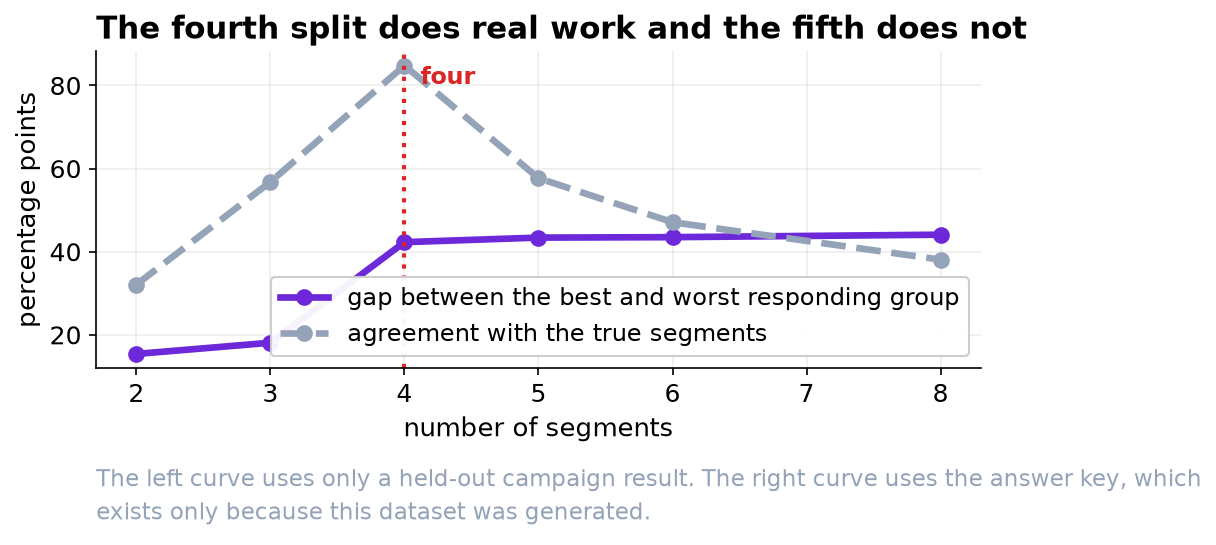
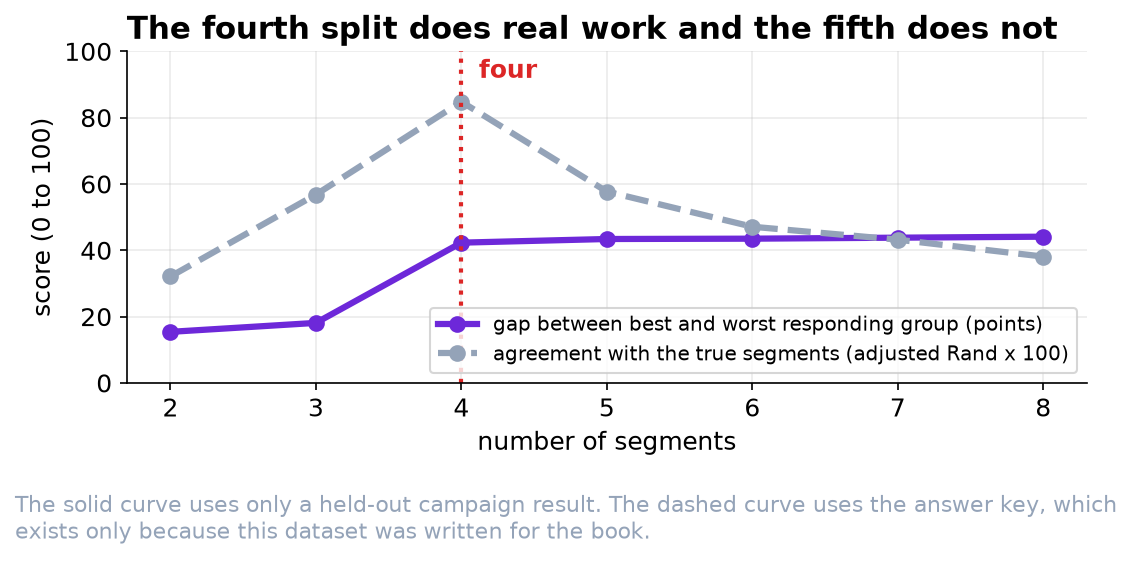
Correct nine points in Capstone: Clustering: Choosing k Honestly
Cluster 2's response rate of 0.126 is clearly different from the 0.185
base rate (and cluster 1 responds at 0.100), so the clue is how closely
it resembles the accounts DBSCAN left unclassified (0.144) on every
column; quiz Q7, the chapter, notebook and reports now say so. DBSCAN's
55.4 percent noise matches the true 54.5 percent middle only because two
errors offset (904 segment members in the noise, 850 middle accounts in
clusters, now printed). The three named groups are 30.2 percent of the
base (now printed), not 45; the brief's figure is captioned as the
answer key; ARI at k = 8 is now printed (0.381), and the brief's figure
axis no longer calls it percentage points. Also: annual spend is the
bottom row of the box plot, the raw-unit clusters differ mainly on
spend-linked columns, the 95 and 7 percent are per-feature shares, and
the dataset card and workbook give rows and accounts separately and say
the data were written for the book.

diff --git a/chapters/notebooks/html/capstone-clustering-choosing-k.html b/chapters/notebooks/html/capstone-clustering-choosing-k.html
@@ -8016,7 +8016,7 @@ a.anchor-link {
 <div class="jp-RenderedText jp-OutputArea-output" data-mime-type="text/plain" tabindex="0">
 <pre>CAPSTONE 33 - CUSTOMER SEGMENTATION, AND HOW MANY SEGMENTS THERE REALLY ARE
 
-Twelve months of loyalty-account behavior from a general retailer, 6,000 accounts.
+Twelve months of loyalty-account behavior from a general retailer, 6,000 accounts, a realistic teaching dataset written for the book.
 
 THE REQUEST. Marketing wants customer segments for next year's plan. The brief says
 'four or five segments, with names'. Nobody has asked whether there are any.
@@ -8036,8 +8036,8 @@ not a formality, and it changes the answer.
 
 KNOWN FAULTS IN THIS EXPORT, left in deliberately:
   - a block of 190 accounts was exported twice
-  - 84 accounts have a negative annual_spend: returns exceeded purchases
-  - 233 accounts have tenure_months = -1 because the join date was never migrated
+  - 84 rows (81 accounts once duplicates are removed) have a negative annual_spend: returns exceeded purchases
+  - 233 rows (228 accounts) have tenure_months = -1 because the join date was never migrated
 
 THERE IS AN ANSWER KEY in the Truth sheet, because this dataset was generated. Do not
 open it until you have committed to an answer. Read Truth_ReadMe first.
@@ -8245,7 +8245,7 @@ The five-number summary of every column is the left panel; the whole correlation
 </div>
 <div class="jp-InputArea jp-Cell-inputArea"><div class="jp-InputPrompt jp-InputArea-prompt">
 </div><div class="jp-RenderedHTMLCommon jp-RenderedMarkdown jp-MarkdownOutput" data-mime-type="text/markdown">
-<p><strong>Left:</strong> a log axis is the only way to get all eight columns onto one picture, and that is itself the finding. On the linear scale k-means actually works with, the top row dwarfs the bottom four. <strong>Right:</strong> spend, basket size and visits carry much of the same information. Standardizing fixes the units problem in the left panel and does nothing at all about the right one, and the next step shows what the first failure costs.</p>
+<p><strong>Left:</strong> a log axis is the only way to get all eight columns onto one picture, and that is itself the finding. On the linear scale k-means actually works with, the bottom row, annual spend, dwarfs the rest. <strong>Right:</strong> spend, basket size and visits carry much of the same information. Standardizing fixes the units problem in the left panel and does nothing at all about the right one, and the next step shows what the first failure costs.</p>
 </div>
 </div>
 </div>
@@ -8810,6 +8810,9 @@ most stable k on the real data: 2
     <span class="n">m</span> <span class="o">=</span> <span class="n">db</span> <span class="o">==</span> <span class="n">c</span>
     <span class="n">nm</span> <span class="o">=</span> <span class="s2">"noise"</span> <span class="k">if</span> <span class="n">c</span> <span class="o">==</span> <span class="o">-</span><span class="mi">1</span> <span class="k">else</span> <span class="nb">str</span><span class="p">(</span><span class="n">c</span><span class="p">)</span>
     <span class="nb">print</span><span class="p">(</span><span class="sa">f</span><span class="s2">"  </span><span class="si">{</span><span class="n">nm</span><span class="si">:</span><span class="s2">&gt;10s</span><span class="si">}</span><span class="s2"> </span><span class="si">{</span><span class="n">m</span><span class="o">.</span><span class="n">sum</span><span class="p">()</span><span class="si">:</span><span class="s2">7,</span><span class="si">}</span><span class="s2"> </span><span class="si">{</span><span class="n">y</span><span class="p">[</span><span class="n">m</span><span class="p">]</span><span class="o">.</span><span class="n">mean</span><span class="p">()</span><span class="si">:</span><span class="s2">10.3f</span><span class="si">}</span><span class="s2">"</span> <span class="o">+</span> <span class="s2">""</span><span class="o">.</span><span class="n">join</span><span class="p">(</span><span class="sa">f</span><span class="s2">"</span><span class="si">{</span><span class="n">v</span><span class="si">:</span><span class="s2">12.2f</span><span class="si">}</span><span class="s2">"</span> <span class="k">for</span> <span class="n">v</span> <span class="ow">in</span> <span class="n">X</span><span class="p">[</span><span class="n">m</span><span class="p">][:,</span><span class="mi">1</span><span class="p">:]</span><span class="o">.</span><span class="n">mean</span><span class="p">(</span><span class="mi">0</span><span class="p">)))</span>
+<span class="n">named</span> <span class="o">=</span> <span class="n">np</span><span class="o">.</span><span class="n">isin</span><span class="p">(</span><span class="n">db</span><span class="p">,</span> <span class="p">[</span><span class="mi">0</span><span class="p">,</span> <span class="mi">1</span><span class="p">,</span> <span class="mi">3</span><span class="p">])</span>
+<span class="nb">print</span><span class="p">(</span><span class="sa">f</span><span class="s2">"</span><span class="se">\n</span><span class="s2">clusters 0, 1 and 3 hold </span><span class="si">{</span><span class="n">named</span><span class="o">.</span><span class="n">sum</span><span class="p">()</span><span class="si">:</span><span class="s2">,</span><span class="si">}</span><span class="s2"> accounts, </span><span class="si">{</span><span class="n">named</span><span class="o">.</span><span class="n">mean</span><span class="p">()</span><span class="si">:</span><span class="s2">.1%</span><span class="si">}</span><span class="s2"> of the base; "</span>
+      <span class="sa">f</span><span class="s2">"the whole base responded at </span><span class="si">{</span><span class="n">y</span><span class="o">.</span><span class="n">mean</span><span class="p">()</span><span class="si">:</span><span class="s2">.3f</span><span class="si">}</span><span class="s2">"</span><span class="p">)</span>
 </pre></div>
 </div>
 </div>
@@ -8830,6 +8833,8 @@ most stable k on the real data: 2
            1     661      0.100        3.51      130.01       19.08        0.30        0.24        0.85        2.73
            2     819      0.126        9.27       42.45       56.66        0.33        0.06        0.52        4.74
            3     181      0.039       38.08      149.31       86.88        0.14        0.04        0.46        9.07
+
+clusters 0, 1 and 3 hold 1,719 accounts, 30.2% of the base; the whole base responded at 0.185
 </pre>
 </div>
 </div>
@@ -8863,6 +8868,12 @@ most stable k on the real data: 2
 <span class="n">ct</span> <span class="o">=</span> <span class="n">pd</span><span class="o">.</span><span class="n">crosstab</span><span class="p">(</span><span class="n">pd</span><span class="o">.</span><span class="n">Series</span><span class="p">(</span><span class="n">db</span><span class="p">)</span><span class="o">.</span><span class="n">replace</span><span class="p">({</span><span class="o">-</span><span class="mi">1</span><span class="p">:</span> <span class="s2">"noise"</span><span class="p">}),</span> <span class="n">T</span><span class="p">)</span>
 <span class="nb">print</span><span class="p">(</span><span class="s2">"DBSCAN CLUSTERS AGAINST THE ANSWER KEY"</span><span class="p">)</span>
 <span class="nb">print</span><span class="p">(</span><span class="n">ct</span><span class="o">.</span><span class="n">to_string</span><span class="p">())</span>
+<span class="n">noise</span><span class="p">,</span> <span class="n">mid</span> <span class="o">=</span> <span class="n">db</span> <span class="o">==</span> <span class="o">-</span><span class="mi">1</span><span class="p">,</span> <span class="n">T</span> <span class="o">==</span> <span class="s2">"unstructured middle"</span>
+<span class="nb">print</span><span class="p">(</span><span class="sa">f</span><span class="s2">"</span><span class="se">\n</span><span class="s2">noise </span><span class="si">{</span><span class="n">noise</span><span class="o">.</span><span class="n">mean</span><span class="p">()</span><span class="si">:</span><span class="s2">.1%</span><span class="si">}</span><span class="s2"> of accounts against a true middle of </span><span class="si">{</span><span class="n">mid</span><span class="o">.</span><span class="n">mean</span><span class="p">()</span><span class="si">:</span><span class="s2">.1%</span><span class="si">}</span><span class="s2">, but the two are different sets:"</span><span class="p">)</span>
+<span class="nb">print</span><span class="p">(</span><span class="sa">f</span><span class="s2">"  </span><span class="si">{</span><span class="nb">int</span><span class="p">((</span><span class="n">noise</span><span class="w"> </span><span class="o">&amp;</span><span class="w"> </span><span class="o">~</span><span class="n">mid</span><span class="p">)</span><span class="o">.</span><span class="n">sum</span><span class="p">())</span><span class="si">:</span><span class="s2">,</span><span class="si">}</span><span class="s2"> noise accounts belong to a true segment, including "</span>
+      <span class="sa">f</span><span class="s2">"</span><span class="si">{</span><span class="nb">int</span><span class="p">((</span><span class="n">noise</span><span class="w"> </span><span class="o">&amp;</span><span class="w"> </span><span class="p">(</span><span class="n">T</span><span class="w"> </span><span class="o">==</span><span class="w"> </span><span class="s1">'loyal high spenders'</span><span class="p">))</span><span class="o">.</span><span class="n">sum</span><span class="p">())</span><span class="si">}</span><span class="s2"> of the </span><span class="si">{</span><span class="nb">int</span><span class="p">((</span><span class="n">T</span><span class="w"> </span><span class="o">==</span><span class="w"> </span><span class="s1">'loyal high spenders'</span><span class="p">)</span><span class="o">.</span><span class="n">sum</span><span class="p">())</span><span class="si">}</span><span class="s2"> loyal high spenders"</span><span class="p">)</span>
+<span class="nb">print</span><span class="p">(</span><span class="sa">f</span><span class="s2">"  </span><span class="si">{</span><span class="nb">int</span><span class="p">((</span><span class="n">noise</span><span class="w"> </span><span class="o">&amp;</span><span class="w"> </span><span class="n">mid</span><span class="p">)</span><span class="o">.</span><span class="n">sum</span><span class="p">())</span><span class="si">:</span><span class="s2">,</span><span class="si">}</span><span class="s2"> of the </span><span class="si">{</span><span class="nb">int</span><span class="p">(</span><span class="n">mid</span><span class="o">.</span><span class="n">sum</span><span class="p">())</span><span class="si">:</span><span class="s2">,</span><span class="si">}</span><span class="s2"> middle accounts are labeled noise "</span>
+      <span class="sa">f</span><span class="s2">"(</span><span class="si">{</span><span class="p">(</span><span class="n">noise</span><span class="w"> </span><span class="o">&amp;</span><span class="w"> </span><span class="n">mid</span><span class="p">)</span><span class="o">.</span><span class="n">sum</span><span class="p">()</span><span class="o">/</span><span class="n">mid</span><span class="o">.</span><span class="n">sum</span><span class="p">()</span><span class="si">:</span><span class="s2">.0%</span><span class="si">}</span><span class="s2">); the other </span><span class="si">{</span><span class="nb">int</span><span class="p">((</span><span class="o">~</span><span class="n">noise</span><span class="w"> </span><span class="o">&amp;</span><span class="w"> </span><span class="n">mid</span><span class="p">)</span><span class="o">.</span><span class="n">sum</span><span class="p">())</span><span class="si">}</span><span class="s2"> were put in clusters"</span><span class="p">)</span>
 </pre></div>
 </div>
 </div>
@@ -8883,6 +8894,10 @@ row_0
 2                    0                 0                    0                  819
 3                    0                 0                  180                    1
 noise              123                99                  682                 2251
+
+noise 55.4% of accounts against a true middle of 54.5%, but the two are different sets:
+  904 noise accounts belong to a true segment, including 682 of the 862 loyal high spenders
+  2,251 of the 3,101 middle accounts are labeled noise (73%); the other 850 were put in clusters
 </pre>
 </div>
 </div>
@@ -8895,7 +8910,7 @@ noise              123                99                  682                 22
 </div>
 <div class="jp-InputArea jp-Cell-inputArea"><div class="jp-InputPrompt jp-InputArea-prompt">
 </div><div class="jp-RenderedHTMLCommon jp-RenderedMarkdown jp-MarkdownOutput" data-mime-type="text/markdown">
-<p>Three of the four dense regions are one true segment each, almost cleanly. The fourth, cluster 2, is drawn entirely from the unstructured middle: it is a dense patch of a continuum rather than a group, and it is exactly the kind of thing that gets a name and a campaign budget if nobody checks. Its response rate of 0.126 is indistinguishable from the base rate, which is the clue that was available without the answer key.</p>
+<p>Three of the four dense regions are one true segment each, almost cleanly. The fourth, cluster 2, is drawn entirely from the unstructured middle: it is a dense patch of a continuum rather than a group, and it is exactly the kind of thing that gets a name and a campaign budget if nobody checks. The clue that was available without the answer key is how much it resembles the accounts DBSCAN declined to classify. Its response rate of 0.126 sits close to their 0.144, and its profile is middling on every column. Response alone would not have singled it out, since cluster 1 responds at 0.100.</p>
 </div>
 </div>
 </div>
@@ -8966,7 +8981,7 @@ unstructured middle    0.145
 <div class="cm-editor cm-s-jupyter">
 <div class="highlight hl-ipython3"><pre><span></span><span class="nb">print</span><span class="p">(</span><span class="s2">"ADJUSTED RAND AGAINST THE ANSWER KEY"</span><span class="p">)</span>
 <span class="nb">print</span><span class="p">(</span><span class="sa">f</span><span class="s2">"  </span><span class="si">{</span><span class="s1">'k'</span><span class="si">:</span><span class="s2">&gt;3s</span><span class="si">}</span><span class="s2"> </span><span class="si">{</span><span class="s1">'k-means'</span><span class="si">:</span><span class="s2">&gt;10s</span><span class="si">}</span><span class="s2"> </span><span class="si">{</span><span class="s1">'Ward'</span><span class="si">:</span><span class="s2">&gt;10s</span><span class="si">}</span><span class="s2">"</span><span class="p">)</span>
-<span class="k">for</span> <span class="n">k</span> <span class="ow">in</span> <span class="nb">range</span><span class="p">(</span><span class="mi">2</span><span class="p">,</span> <span class="mi">8</span><span class="p">):</span>
+<span class="k">for</span> <span class="n">k</span> <span class="ow">in</span> <span class="nb">range</span><span class="p">(</span><span class="mi">2</span><span class="p">,</span> <span class="mi">9</span><span class="p">):</span>
     <span class="n">a</span> <span class="o">=</span> <span class="n">adjusted_rand_score</span><span class="p">(</span><span class="n">T</span><span class="p">,</span> <span class="n">KMeans</span><span class="p">(</span><span class="n">k</span><span class="p">,</span> <span class="n">n_init</span><span class="o">=</span><span class="mi">10</span><span class="p">,</span> <span class="n">random_state</span><span class="o">=</span><span class="mi">1</span><span class="p">)</span><span class="o">.</span><span class="n">fit_predict</span><span class="p">(</span><span class="n">Z</span><span class="p">))</span>
     <span class="n">b</span> <span class="o">=</span> <span class="n">adjusted_rand_score</span><span class="p">(</span><span class="n">T</span><span class="p">,</span> <span class="n">AgglomerativeClustering</span><span class="p">(</span><span class="n">k</span><span class="p">,</span> <span class="n">linkage</span><span class="o">=</span><span class="s2">"ward"</span><span class="p">)</span><span class="o">.</span><span class="n">fit_predict</span><span class="p">(</span><span class="n">Z</span><span class="p">))</span>
     <span class="nb">print</span><span class="p">(</span><span class="sa">f</span><span class="s2">"  </span><span class="si">{</span><span class="n">k</span><span class="si">:</span><span class="s2">3d</span><span class="si">}</span><span class="s2"> </span><span class="si">{</span><span class="n">a</span><span class="si">:</span><span class="s2">10.3f</span><span class="si">}</span><span class="s2"> </span><span class="si">{</span><span class="n">b</span><span class="si">:</span><span class="s2">10.3f</span><span class="si">}</span><span class="s2">"</span><span class="p">)</span>
@@ -9029,6 +9044,13 @@ unstructured middle    0.145
 <div class="jp-OutputPrompt jp-OutputArea-prompt"></div>
 <div class="jp-RenderedText jp-OutputArea-output" data-mime-type="text/plain" tabindex="0">
 <pre>    7      0.432      0.428
+</pre>
+</div>
+</div>
+<div class="jp-OutputArea-child">
+<div class="jp-OutputPrompt jp-OutputArea-prompt"></div>
+<div class="jp-RenderedText jp-OutputArea-output" data-mime-type="text/plain" tabindex="0">
+<pre>    8      0.381      0.385
 
   DBSCAN, on the 2,538 accounts it was willing to classify: 0.963
 </pre>
@@ -9046,7 +9068,7 @@ unstructured middle    0.145
 <p>Everything the external check said turns out to be right, and everything the internal indices said turns out to be wrong.</p>
 <ul>
 <li><strong>k = 4 recovers the structure</strong>, at an adjusted Rand of 0.85 for k-means and 0.92 for Ward. k = 2, which both internal criteria preferred, scores 0.32.</li>
-<li><strong>DBSCAN scores 0.96</strong> on the accounts it was prepared to classify, and it independently identified that about 55 percent of the base belongs to nothing, against a true figure of 55 percent.</li>
+<li><strong>DBSCAN scores 0.96</strong> on the accounts it was prepared to classify, and its noise share of 55.4 percent sits close to the true middle's 54.5. The match is partly luck. Its noise includes 682 of the 862 loyal high spenders, while 850 middle accounts were put in clusters, and at a radius of 1.1 the noise share is 15.4 percent.</li>
 <li><strong>Ward beat k-means at every k from three to six</strong>, which is worth a moment: the segments are not equally sized or equally spread, and k-means prefers clusters that are.</li>
 </ul>
 <p>The general lesson is not that silhouette and stability are useless. They established that there was structure at all, which is a real question and was worth answering. They could not count it. Counting it needed evidence from outside the clustering.</p>
@@ -9145,12 +9167,12 @@ unstructured middle    0.145
 </div><div class="jp-RenderedHTMLCommon jp-RenderedMarkdown jp-MarkdownOutput" data-mime-type="text/markdown">
 <hr/>
 <h3 id="What-to-take-away">What to take away<a class="anchor-link" href="#What-to-take-away">¶</a></h3><ol>
-<li><strong>Clustering on raw units clusters on whatever has the largest numbers.</strong> Ninety-five percent of the variation captured was spend; seven percent was online share.</li>
+<li><strong>Clustering on raw units clusters on whatever has the largest numbers.</strong> The raw-unit clusters accounted for 95 percent of the variance in spend and 7 percent of the variance in online share.</li>
 <li><strong>Every method returns clusters, including on data that has none.</strong> Silhouette named a best k for uniform random data without hesitation.</li>
 <li><strong>Read the height of an index, not the position of its maximum.</strong> 0.37 against 0.09 is evidence; the argmax at 2 was wrong.</li>
 <li><strong>Stability detects structure and does not count it.</strong> 0.99 on the real data against 0.15 on noise, and above 0.98 for every k from 2 to 5.</li>
 <li><strong>The number of clusters came from a variable the algorithm never saw.</strong> The response spread doubled at the fourth split and flattened after it.</li>
-<li><strong>k-means must classify everyone.</strong> DBSCAN found that 55 percent of the base belongs to no segment, which was the truth and was not in the brief.</li>
+<li><strong>k-means must classify everyone.</strong> DBSCAN left 55 percent of the base in no segment, close to the true middle's share, though the two sets overlap only in part.</li>
 </ol>
 </div>
 </div>

diff --git a/reports/capstone-33-clustering-choosing-k-technical.html b/reports/capstone-33-clustering-choosing-k-technical.html
@@ -81,7 +81,7 @@
       <p>Feature standard deviations span four orders of magnitude: <code>annual_spend</code> at 2,134.7 against <code>discount_share</code> at 0.248, a ratio of about 8,600. Under a Euclidean metric this makes the partition a function of spend alone.</p>
       <div class="rpt-cap"><span class="n">Table 1.</span> Between-cluster variance as a share of total, per feature, k = 4 on unstandardized data.</div>
       <div class="rpt-tablewrap" tabindex="0"><table class="rpt-table"><thead><tr><th>Feature</th><th>Share of its variance explained by k-means on raw units</th></tr></thead><tbody><tr><td><span class='nm'>annual_spend</span></td><td><span class='nm'>0.950</span></td></tr><tr><td>visits_per_year</td><td>0.554</td></tr><tr><td>avg_basket</td><td>0.402</td></tr><tr><td>categories_bought</td><td>0.251</td></tr><tr><td>discount_share</td><td>0.200</td></tr><tr><td>tenure_months</td><td>0.142</td></tr><tr><td>returns_rate</td><td>0.072</td></tr><tr><td><span class='nm'>online_share</span></td><td><span class='nm'>0.068</span></td></tr></tbody></table></div>
-      <p>The resulting clusters have mean annual spends of 442, 1,405, 5,017 and 7,875 dollars and are near-identical on every behavioral rate. All subsequent analysis uses z-standardized features. That choice is itself a weighting assumption, asserting equal importance per standard deviation, and a margin-weighted alternative would produce different boundaries with no test to adjudicate between them.</p>
+      <p>The resulting clusters have mean annual spends of 442, 1,405, 5,017 and 7,875 dollars and differ mainly in spend and the spend-linked columns, visits and basket size. All subsequent analysis uses z-standardized features. That choice is itself a weighting assumption, asserting equal importance per standard deviation, and a margin-weighted alternative would produce different boundaries with no test to adjudicate between them.</p>
       <h2>3. Internal criteria</h2>
       <div class="rpt-cap"><span class="n">Table 2.</span> Silhouette on a 3,000-point subsample; stability is the mean adjusted Rand between the full solution and 25 refits on 80 percent subsamples.</div>
       <div class="rpt-tablewrap" tabindex="0"><table class="rpt-table"><thead><tr><th>k</th><th>Silhouette, real</th><th>Silhouette, uniform random</th><th>Stability, real</th><th>Stability, random</th></tr></thead><tbody><tr><td><span class='nm'>2</span></td><td><span class='nm'>0.3670</span></td><td>0.0950</td><td><span class='nm'>0.998</span></td><td>0.230</td></tr><tr><td>3</td><td>0.3147</td><td>0.0814</td><td>0.997</td><td>0.162</td></tr><tr><td>4</td><td>0.3242</td><td>0.0858</td><td>0.994</td><td>0.151</td></tr><tr><td>5</td><td>0.2932</td><td>0.0862</td><td>0.987</td><td>0.198</td></tr><tr><td>6</td><td>0.2790</td><td>0.0855</td><td>0.944</td><td>0.223</td></tr><tr><td>7</td><td>0.2739</td><td>0.0877</td><td>0.823</td><td>0.226</td></tr><tr><td>10</td><td>0.1841</td><td>0.0925</td><td></td><td></td></tr></tbody></table></div>
@@ -96,12 +96,12 @@
       <figure class="rpt-fig"><img src="../assets/img/report-33-how-many-k.png" alt="Two curves against number of segments, both turning at four."><figcaption><span class="n">Figure 2.</span> The held-out campaign response spread and the agreement with the answer key, both against the number of segments. Only the first was available before the key was opened.</figcaption></figure>
       <h2>5. Ward and DBSCAN</h2>
       <div class="rpt-cap"><span class="n">Table 4.</span> Adjusted Rand against the answer key.</div>
-      <div class="rpt-tablewrap"><table class="rpt-table"><thead><tr><th>k</th><th>k-means ARI</th><th>Ward ARI</th></tr></thead><tbody><tr><td>2</td><td>0.321</td><td>0.316</td></tr><tr><td>3</td><td>0.568</td><td>0.586</td></tr><tr><td><span class='nm'>4</span></td><td><span class='nm'>0.848</span></td><td><span class='nm'>0.924</span></td></tr><tr><td>5</td><td>0.577</td><td>0.601</td></tr><tr><td>6</td><td>0.471</td><td>0.527</td></tr><tr><td>7</td><td>0.432</td><td>0.428</td></tr></tbody></table></div>
+      <div class="rpt-tablewrap"><table class="rpt-table"><thead><tr><th>k</th><th>k-means ARI</th><th>Ward ARI</th></tr></thead><tbody><tr><td>2</td><td>0.321</td><td>0.316</td></tr><tr><td>3</td><td>0.568</td><td>0.586</td></tr><tr><td><span class='nm'>4</span></td><td><span class='nm'>0.848</span></td><td><span class='nm'>0.924</span></td></tr><tr><td>5</td><td>0.577</td><td>0.601</td></tr><tr><td>6</td><td>0.471</td><td>0.527</td></tr><tr><td>7</td><td>0.432</td><td>0.428</td></tr><tr><td>8</td><td>0.381</td><td>0.385</td></tr></tbody></table></div>
       <p>Ward linkage outperforms k-means at every k from 3 to 6. The true segments differ in size (978, 862, 752 within a base of 5,693) and in dispersion, and k-means implicitly favors clusters that are comparable in both.</p>
-      <p>DBSCAN at eps = 0.9, min_samples = 25 returns four dense regions and labels <strong>55.4 percent</strong> of accounts as noise, against a true unstructured share of <strong>54.5 percent</strong>. On the 2,538 accounts it was willing to classify it achieves an adjusted Rand of <strong>0.963</strong>.</p>
+      <p>DBSCAN at eps = 0.9, min_samples = 25 returns four dense regions and labels <strong>55.4 percent</strong> of accounts as noise, against a true unstructured share of <strong>54.5 percent</strong>. The totals agree because two errors offset. The noise holds 904 accounts from true segments, including 682 of the 862 loyal high spenders, and 850 of the 3,101 middle accounts were assigned to clusters. On the 2,538 accounts it was willing to classify it achieves an adjusted Rand of <strong>0.963</strong>.</p>
       <div class="rpt-cap"><span class="n">Table 5.</span> DBSCAN labels against the answer key.</div>
       <div class="rpt-tablewrap" tabindex="0"><table class="rpt-table"><thead><tr><th>DBSCAN cluster</th><th>Bargain hunters</th><th>Gift occasionals</th><th>Loyal high spenders</th><th>Unstructured middle</th></tr></thead><tbody><tr><td>0</td><td><span class='nm'>855</span></td><td>0</td><td>0</td><td>22</td></tr><tr><td>1</td><td>0</td><td><span class='nm'>653</span></td><td>0</td><td>8</td></tr><tr><td>3</td><td>0</td><td>0</td><td><span class='nm'>180</span></td><td>1</td></tr><tr><td><span class='nm'>2</span></td><td>0</td><td>0</td><td>0</td><td><span class='nm'>819</span></td></tr><tr><td>noise</td><td>123</td><td>99</td><td>682</td><td>2,251</td></tr></tbody></table></div>
-      <p>Cluster 2 consists entirely of unstructured-middle accounts: a dense region of a continuum rather than a group. Its response rate of 0.126 against a base rate of 0.185 is the diagnostic that identifies it without the answer key, and it is the same external criterion used to select k, applied per cluster.</p>
+      <p>Cluster 2 consists entirely of unstructured-middle accounts: a dense region of a continuum rather than a group. Its response rate of 0.126, close to the 0.144 of the DBSCAN noise accounts, and a behavioral profile near theirs on every feature identify it without the answer key. Response alone does not single it out, since the gift-occasional cluster responds at 0.100.</p>
       <p>DBSCAN is highly sensitive to eps: 0.7 yields two clusters and 91.9 percent noise, 1.5 yields one cluster and 1.0 percent noise. The parameter performs the same role as k and should be selected the same way.</p>
       <figure class="rpt-fig"><img src="../assets/img/capstone-clustering-external.png" alt="Two panels: the value curves peaking at four, and a table of DBSCAN clusters against true segments."><figcaption><span class="n">Figure 3.</span> Left, the external check and the answer key across k. Right, what DBSCAN found set against the true segments, including the dense patch of continuum it labeled as a cluster.</figcaption></figure>
       <h2>6. Limitations</h2>

diff --git a/chapters/capstone-clustering-choosing-k.html b/chapters/capstone-clustering-choosing-k.html
@@ -152,7 +152,7 @@
     <figure class="nb-fig">
       <img src="../assets/img/capstone-clustering-firstlook.png"
            alt="Left: box plots of the eight behavioral features on a logarithmic axis, spanning five orders of magnitude from returns rate near 0.07 up to annual spend near 650. Right: an eight by eight correlation heat map, with annual spend correlating 0.72 with visits per year and 0.65 with average basket, and average basket correlating minus 0.49 with discount share.">
-      <figcaption><strong>Left:</strong> a log axis is the only way to fit all eight columns onto one picture, and that is the finding. On the linear scale k-means works with, the top row dwarfs the rest. <strong>Right:</strong> several columns already carry the same information. Standardizing fixes the first problem and does nothing about the second.</figcaption>
+      <figcaption><strong>Left:</strong> a log axis is the only way to fit all eight columns onto one picture, and that is the finding. On the linear scale k-means works with, the bottom row, annual spend, dwarfs the rest. <strong>Right:</strong> several columns already carry the same information. Standardizing fixes the first problem and does nothing about the second.</figcaption>
     </figure>
 
     <div class="table-scroll" tabindex="0">
@@ -166,8 +166,8 @@
     </div>
 
     <p>The clusters account for <strong>95 percent</strong> of the variation in spend and <strong>7 percent</strong> of
-       the variation in how much a customer shops online. Clusters 1 and 2 are indistinguishable on every behavioral
-       column and differ only in size of wallet.</p>
+       the variation in how much a customer shops online. Clusters 1 and 2 have the same discount, return and online
+       shares and differ in spend and the columns that go with it, visits and basket size.</p>
 
     <p>This is not a segmentation. It is a ranking of customers by spend with four names on it, and a sort would have
        produced it faster.</p>
@@ -291,10 +291,11 @@
        useful one: a plan that assigns every customer to a segment and a treatment is planning for a base that does
        not exist.</p>
 
-    <p>Cluster 2 is the interesting failure. Its profile is unremarkable and its response rate of 0.126 is
-       indistinguishable from the 0.185 base rate. It is a dense patch of the continuum rather than a group, and it is
+    <p>Cluster 2 is the interesting failure. Its profile is middling on every column and its response rate of 0.126
+       sits close to the 0.144 of the accounts DBSCAN declined to classify. It is a dense patch of the continuum rather than a group, and it is
        exactly the kind of thing that gets a name and a budget if nobody checks. <strong>The clue was available
-       without the answer key</strong>: it did not separate anything.</p>
+       without the answer key</strong>, in how closely it resembles those unclassified accounts. Response alone would not
+       have singled it out, since cluster 1 responds at 0.100.</p>
 
     <p>Note also how sensitive DBSCAN is to its radius. At 0.7 it finds two clusters and calls 92 percent noise; at
        1.5 it merges everything into one. That parameter does the same job k does, and it is chosen the same way: by
@@ -332,8 +333,9 @@
     <p>Everything the external check said turns out to be right and everything the internal indices said turns out to
        be wrong. Three further things are worth noting.</p>
 
-    <p><strong>DBSCAN's noise fraction was 55.4 percent against a true 54.5.</strong> It identified the size of the
-       unstructured middle to within a percentage point without being told there was one.</p>
+    <p><strong>DBSCAN's noise fraction was 55.4 percent against a true 54.5.</strong> The match is partly luck. The noise
+       includes 682 of the 862 loyal high spenders, 850 middle accounts were put in clusters, and only 2,251 of the 3,101
+       middle accounts (73 percent) are labeled noise. At a radius of 1.1 the noise share is 15.4 percent.</p>
 
     <p><strong>Ward beat k-means at every k from three to six.</strong> The true segments are not equally sized or
        equally spread, and k-means prefers clusters that are.</p>
@@ -444,7 +446,7 @@
     <div class="rw-card">
       <span class="rw-tag">Read the reports &amp; get the data</span>
       <p style="margin:0.45rem 0 0"><strong>The dataset</strong>
-         (<code>capstone-clustering-choosing-k.xlsx</code>) holds 6,190 loyalty accounts with a duplicated export
+         (<code>capstone-clustering-choosing-k.xlsx</code>) holds 6,190 rows for 6,000 loyalty accounts, realistic teaching data written for the book, with a duplicated export
          block, net-refund accounts recorded as negative spend, unmigrated join dates coded as &#8722;1, a held-back
          campaign response, and a sealed answer key. Two written reports accompany it: a
          <strong>plain-language brief</strong> for the marketing director, and a <strong>technical report</strong>
@@ -466,7 +468,7 @@
         <li><span class="ck">&#10003;</span><span><strong>Uniform random data produces a silhouette curve with a maximum.</strong> Every method returns clusters, including on data that has none.</span></li>
         <li><span class="ck">&#10003;</span><span><strong>Silhouette and stability both chose two.</strong> Stability was above 0.98 for every k from two to five, so it could not tell them apart.</span></li>
         <li><span class="ck">&#10003;</span><span><strong>A held-out campaign variable chose four</strong>, doubling the response spread at the fourth split and adding 0.011 at the fifth.</span></li>
-        <li><span class="ck">&#10003;</span><span><strong>DBSCAN found 55 percent of the base in no segment</strong>, against a true 54.5, which was the answer nobody asked for.</span></li>
+        <li><span class="ck">&#10003;</span><span><strong>DBSCAN left 55 percent of the base in no segment</strong>, close to the true 54.5, though the two sets overlap only in part.</span></li>
       </ul>
     </div>
   </section>
@@ -544,9 +546,9 @@ window.addEventListener('scroll', () => {
     },
     {
       q: "One of DBSCAN's four dense regions (cluster 2, n = 819) turned out to be drawn entirely from the unstructured middle. What signal would have flagged it without the answer key?",
-      options: ["Its size", "Its response rate of 0.126, which is indistinguishable from the 0.185 base rate, so it separates nothing", "Its low average basket", "Its density"],
+      options: ["Its size", "How closely it resembles the accounts DBSCAN left unclassified, with a response rate of 0.126 against their 0.144 and a middling profile on every column", "Its low average basket", "Its density"],
       answer: 1,
-      explain: "The same external check that chose k also audits individual clusters. A group that does not separate the held-out variable is a dense patch of a continuum, and it is exactly what gets a name and a budget if nobody looks."
+      explain: "The same external evidence that chose k also audits individual clusters. Response alone does not single this one out, since cluster 1 responds at 0.100, but a group that looks like the unclassified accounts on every measure is a dense patch of a continuum, and it is exactly what gets a name and a budget if nobody looks."
     },
     {
       q: "Agreement with the answer key was 0.32 at k = 2 and 0.85 at k = 4 for k-means, and 0.92 at k = 4 for Ward. What is the general lesson about internal validity indices?",

diff --git a/reports/capstone-33-clustering-choosing-k.html b/reports/capstone-33-clustering-choosing-k.html
@@ -76,20 +76,20 @@
 
     <div class="rpt-body">
       <h2>Recommendation</h2>
-      <div class="rpt-key"><span class="k-tag">Bottom line</span><p><strong>Build the plan around three segments, and plan separately for the rest of the base.</strong> The three are real: they behave differently, and they responded to last quarter's price-off campaign at 48 percent, 10 percent and 4 percent against a base rate of 18. Together they are about <strong>45 percent</strong> of your customers. The other 55 percent are not a fourth segment. They are a continuum, and a campaign aimed at 'them' is aimed at nobody in particular.</p></div>
+      <div class="rpt-key"><span class="k-tag">Bottom line</span><p><strong>Build the plan around three segments, and plan separately for the rest of the base.</strong> The three are real: they behave differently, and they responded to last quarter's price-off campaign at 48 percent, 10 percent and 4 percent against a base rate of 18. Together they are about <strong>30 percent</strong> of your customers. The rest are not a fourth segment. They are a continuum (55 percent of the base fits no group at all, and a further 14 percent sits in one dense patch of it), and a campaign aimed at 'them' is aimed at nobody in particular.</p></div>
       <h2>The three segments</h2>
       <div class="rpt-cap"><span class="n">Table 1.</span> The three groups that behave distinctly, with their response to a campaign they were not selected for.</div>
       <div class="rpt-tablewrap" tabindex="0"><table class="rpt-table"><thead><tr><th>Segment</th><th>Size</th><th>Looks like</th><th>Responded to the price-off campaign</th></tr></thead><tbody><tr><td><span class='nm'>Bargain hunters</span></td><td>877</td><td>33 visits a year, 27 dollar baskets, 79 percent of purchases on promotion, mostly online</td><td><span class='nm'>48%</span></td></tr><tr><td>Occasional gift buyers</td><td>661</td><td>3 or 4 visits a year, 130 dollar baskets, a 24 percent return rate, almost entirely online</td><td>10%</td></tr><tr><td>Loyal high spenders</td><td>181</td><td>38 visits a year, 149 dollar baskets, seven years' tenure, rarely uses a promotion</td><td>4%</td></tr></tbody></table></div>
       <p>The gap between 48 percent and 4 percent is the practical point. A price-off campaign sent to the whole base costs the same per customer and does very different work depending on who receives it.</p>
-      <figure class="rpt-fig"><img src="../assets/img/report-33-segments.png" alt="Bar chart of campaign response: bargain hunters 50 percent, the unstructured middle 14.5, occasional gift buyers 9.4, loyal high spenders 4.9, against a whole-base rate of 18.5 percent."><figcaption><span class="n">Figure 1.</span> The three named groups and the unstructured middle, measured against a price-off campaign that played no part in building them.</figcaption></figure>
+      <figure class="rpt-fig"><img src="../assets/img/report-33-segments.png" alt="Bar chart of campaign response: bargain hunters 50 percent, the unstructured middle 14.5, occasional gift buyers 9.4, loyal high spenders 4.9, against a whole-base rate of 18.5 percent."><figcaption><span class="n">Figure 1.</span> The true segments from the answer key, which exists only because this dataset was written for the book, measured against a price-off campaign that played no part in building them.</figcaption></figure>
       <h2>Why not four or five</h2>
       <p>We can produce four, five or ten segments on request; the software never refuses. The question is whether the extra ones separate anything. We tested this by holding back last quarter's campaign result, building segments without it, and then asking whether the segments differed on it.</p>
       <div class="rpt-cap"><span class="n">Table 2.</span> Each extra split has to earn its place. The fourth one does; the fifth does not.</div>
       <div class="rpt-tablewrap"><table class="rpt-table"><thead><tr><th>Number of segments</th><th>Gap between the best and worst responding segment</th></tr></thead><tbody><tr><td>Two</td><td>15 points</td></tr><tr><td>Three</td><td>18 points</td></tr><tr><td><span class='nm'>Four</span></td><td><span class='nm'>42 points</span></td></tr><tr><td>Five</td><td>43 points</td></tr><tr><td>Eight</td><td>44 points</td></tr></tbody></table></div>
       <p>The fourth split is where the bargain hunters separate out, and it is worth 24 points of response. Everything after it adds a fraction of a point. That is the whole basis for the recommendation, and it is a better basis than any statistical fit measure, all of which suggested two.</p>
       <h2>The group we would not name</h2>
-      <p>One of the four groups the analysis produced looks superficially like a segment: 819 customers, about nine visits a year, 42 dollar baskets. It responded to the campaign at 12.6 percent, against a base rate of 18.5. In other words it does not behave differently from the average customer in any way that matters.</p>
-      <div class="rpt-key"><span class="k-tag">Why we are flagging this</span><p>This is the group that would have got a name, an owner and a budget. It is the densest patch of an otherwise featureless middle, and the only reason we can tell is that it failed the campaign test. <strong>Any segment that does not separate an outcome you care about is a label, not a segment.</strong></p></div>
+      <p>One of the four groups the analysis produced looks superficially like a segment: 819 customers, about nine visits a year, 42 dollar baskets. It responded to the campaign at 12.6 percent, close to the 14.4 percent of the customers who fit no group, and on every other measure it sits near them too.</p>
+      <div class="rpt-key"><span class="k-tag">Why we are flagging this</span><p>This is the group that would have got a name, an owner and a budget. It is the densest patch of an otherwise featureless middle, and what gives it away is that it looks like the unsegmented customers on every measure, the campaign included. <strong>Any segment that does not separate an outcome you care about is a label, not a segment.</strong></p></div>
       <figure class="rpt-fig"><img src="../assets/img/report-33-how-many-k.png" alt="Two curves against the number of segments. The gap in campaign response jumps at four and flattens; agreement with the true segments peaks at four and falls away."><figcaption><span class="n">Figure 2.</span> Why we stopped at four. Each extra split has to separate something; the fourth one does and the fifth does not.</figcaption></figure>
       <h2>Two cautions</h2>
       <p><strong>These segments are validated for price promotions.</strong> They separate response to a price-off campaign extremely well. They may separate response to a loyalty program, a service change or a new range badly. If next year's plan is not mainly about price, the segmentation should be re-validated against something closer to what it will be used for.</p>
